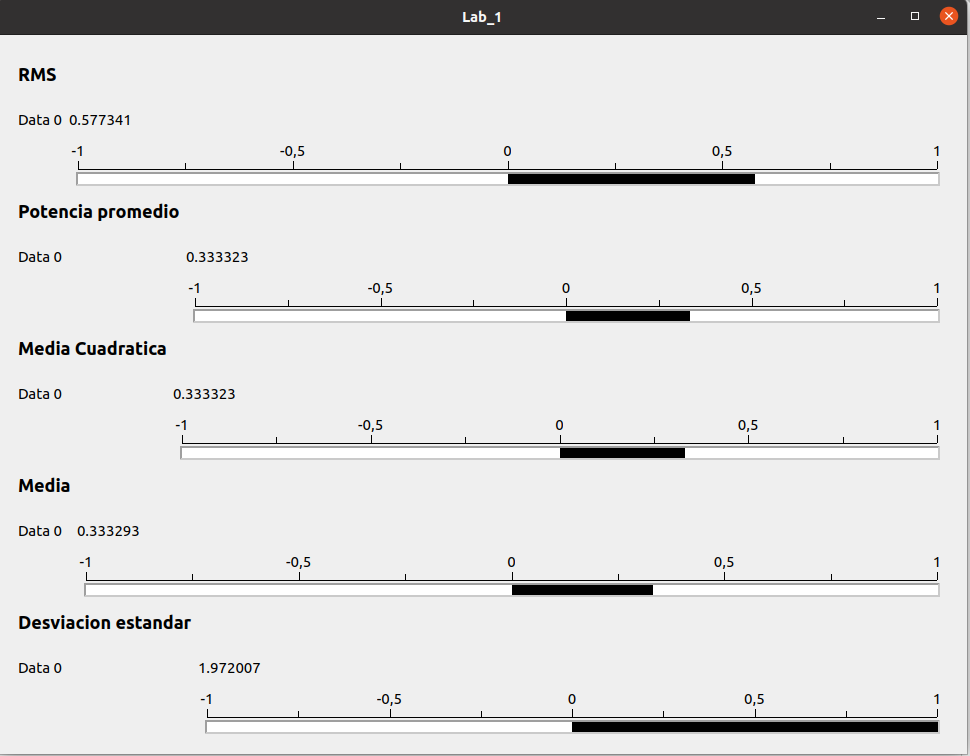
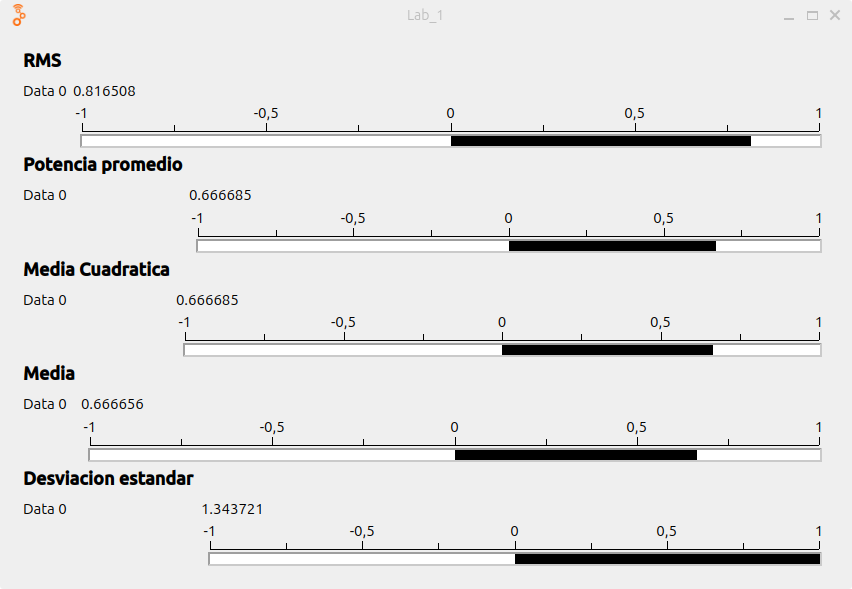
Actualización datos

Changed region(s): [[0.0, 0.0, 1.0, 1.0], [0.0, 0.0917, 0.1526, 0.1834], [0.1831, 0.3056, 0.3052, 0.3667]]

diff --git a/Practica_1/GNU_radio/Lab_1.py b/Practica_1/GNU_radio/Lab_1.py
@@ -6,23 +6,10 @@
 #
 # GNU Radio Python Flow Graph
 # Title: Lab_1
-# GNU Radio version: 3.9.8.0
-
-from distutils.version import StrictVersion
-
-if __name__ == '__main__':
-    import ctypes
-    import sys
-    if sys.platform.startswith('linux'):
-        try:
-            x11 = ctypes.cdll.LoadLibrary('libX11.so')
-            x11.XInitThreads()
-        except:
-            print("Warning: failed to XInitThreads()")
+# GNU Radio version: v3.11.0.0git-810-g1ecb8565
 
 from PyQt5 import Qt
 from gnuradio import qtgui
-import sip
 from gnuradio import analog
 from gnuradio import blocks
 from gnuradio import gr
@@ -30,14 +17,15 @@ from gnuradio.filter import firdes
 from gnuradio.fft import window
 import sys
 import signal
+from PyQt5 import Qt
 from argparse import ArgumentParser
 from gnuradio.eng_arg import eng_float, intx
 from gnuradio import eng_notation
 import Lab_1_epy_block_2 as epy_block_2  # embedded python block
+import sip
+import threading
 
 
-
-from gnuradio import qtgui
 
 class Lab_1(gr.top_block, Qt.QWidget):
 
@@ -48,8 +36,8 @@ class Lab_1(gr.top_block, Qt.QWidget):
         qtgui.util.check_set_qss()
         try:
             self.setWindowIcon(Qt.QIcon.fromTheme('gnuradio-grc'))
-        except:
-            pass
+        except BaseException as exc:
+            print(f"Qt GUI: Could not set Icon: {str(exc)}", file=sys.stderr)
         self.top_scroll_layout = Qt.QVBoxLayout()
         self.setLayout(self.top_scroll_layout)
         self.top_scroll = Qt.QScrollArea()
@@ -62,15 +50,15 @@ class Lab_1(gr.top_block, Qt.QWidget):
         self.top_grid_layout = Qt.QGridLayout()
         self.top_layout.addLayout(self.top_grid_layout)
 
-        self.settings = Qt.QSettings("GNU Radio", "Lab_1")
+        self.settings = Qt.QSettings("gnuradio/flowgraphs", "Lab_1")
 
         try:
-            if StrictVersion(Qt.qVersion()) < StrictVersion("5.0.0"):
-                self.restoreGeometry(self.settings.value("geometry").toByteArray())
-            else:
-                self.restoreGeometry(self.settings.value("geometry"))
-        except:
-            pass
+            geometry = self.settings.value("geometry")
+            if geometry:
+                self.restoreGeometry(geometry)
+        except BaseException as exc:
+            print(f"Qt GUI: Could not restore geometry: {str(exc)}", file=sys.stderr)
+        self.flowgraph_started = threading.Event()
 
         ##################################################
         # Variables
@@ -80,10 +68,11 @@ class Lab_1(gr.top_block, Qt.QWidget):
         ##################################################
         # Blocks
         ##################################################
+
         self.epy_block_2 = epy_block_2.blk()
         self.blocks_vector_source_x_0 = blocks.vector_source_f((1, 2, -1), True, 1, [])
         self.blocks_add_xx_0 = blocks.add_vff(1)
-        self.analog_fastnoise_source_x_0 = analog.fastnoise_source_f(analog.GR_GAUSSIAN, 1, 0, 8192)
+        self.analog_noise_source_x_0 = analog.noise_source_f(analog.GR_GAUSSIAN, 0.5, 0)
         self.RMS = qtgui.number_sink(
             gr.sizeof_float,
             0,
@@ -254,7 +243,7 @@ class Lab_1(gr.top_block, Qt.QWidget):
         ##################################################
         # Connections
         ##################################################
-        self.connect((self.analog_fastnoise_source_x_0, 0), (self.blocks_add_xx_0, 1))
+        self.connect((self.analog_noise_source_x_0, 0), (self.blocks_add_xx_0, 1))
         self.connect((self.blocks_add_xx_0, 0), (self.epy_block_2, 0))
         self.connect((self.blocks_vector_source_x_0, 0), (self.blocks_add_xx_0, 0))
         self.connect((self.epy_block_2, 4), (self.Desviacion, 0))
@@ -265,7 +254,7 @@ class Lab_1(gr.top_block, Qt.QWidget):
 
 
     def closeEvent(self, event):
-        self.settings = Qt.QSettings("GNU Radio", "Lab_1")
+        self.settings = Qt.QSettings("gnuradio/flowgraphs", "Lab_1")
         self.settings.setValue("geometry", self.saveGeometry())
         self.stop()
         self.wait()
@@ -283,14 +272,12 @@ class Lab_1(gr.top_block, Qt.QWidget):
 
 def main(top_block_cls=Lab_1, options=None):
 
-    if StrictVersion("4.5.0") <= StrictVersion(Qt.qVersion()) < StrictVersion("5.0.0"):
-        style = gr.prefs().get_string('qtgui', 'style', 'raster')
-        Qt.QApplication.setGraphicsSystem(style)
     qapp = Qt.QApplication(sys.argv)
 
     tb = top_block_cls()
 
     tb.start()
+    tb.flowgraph_started.set()
 
     tb.show()
 
